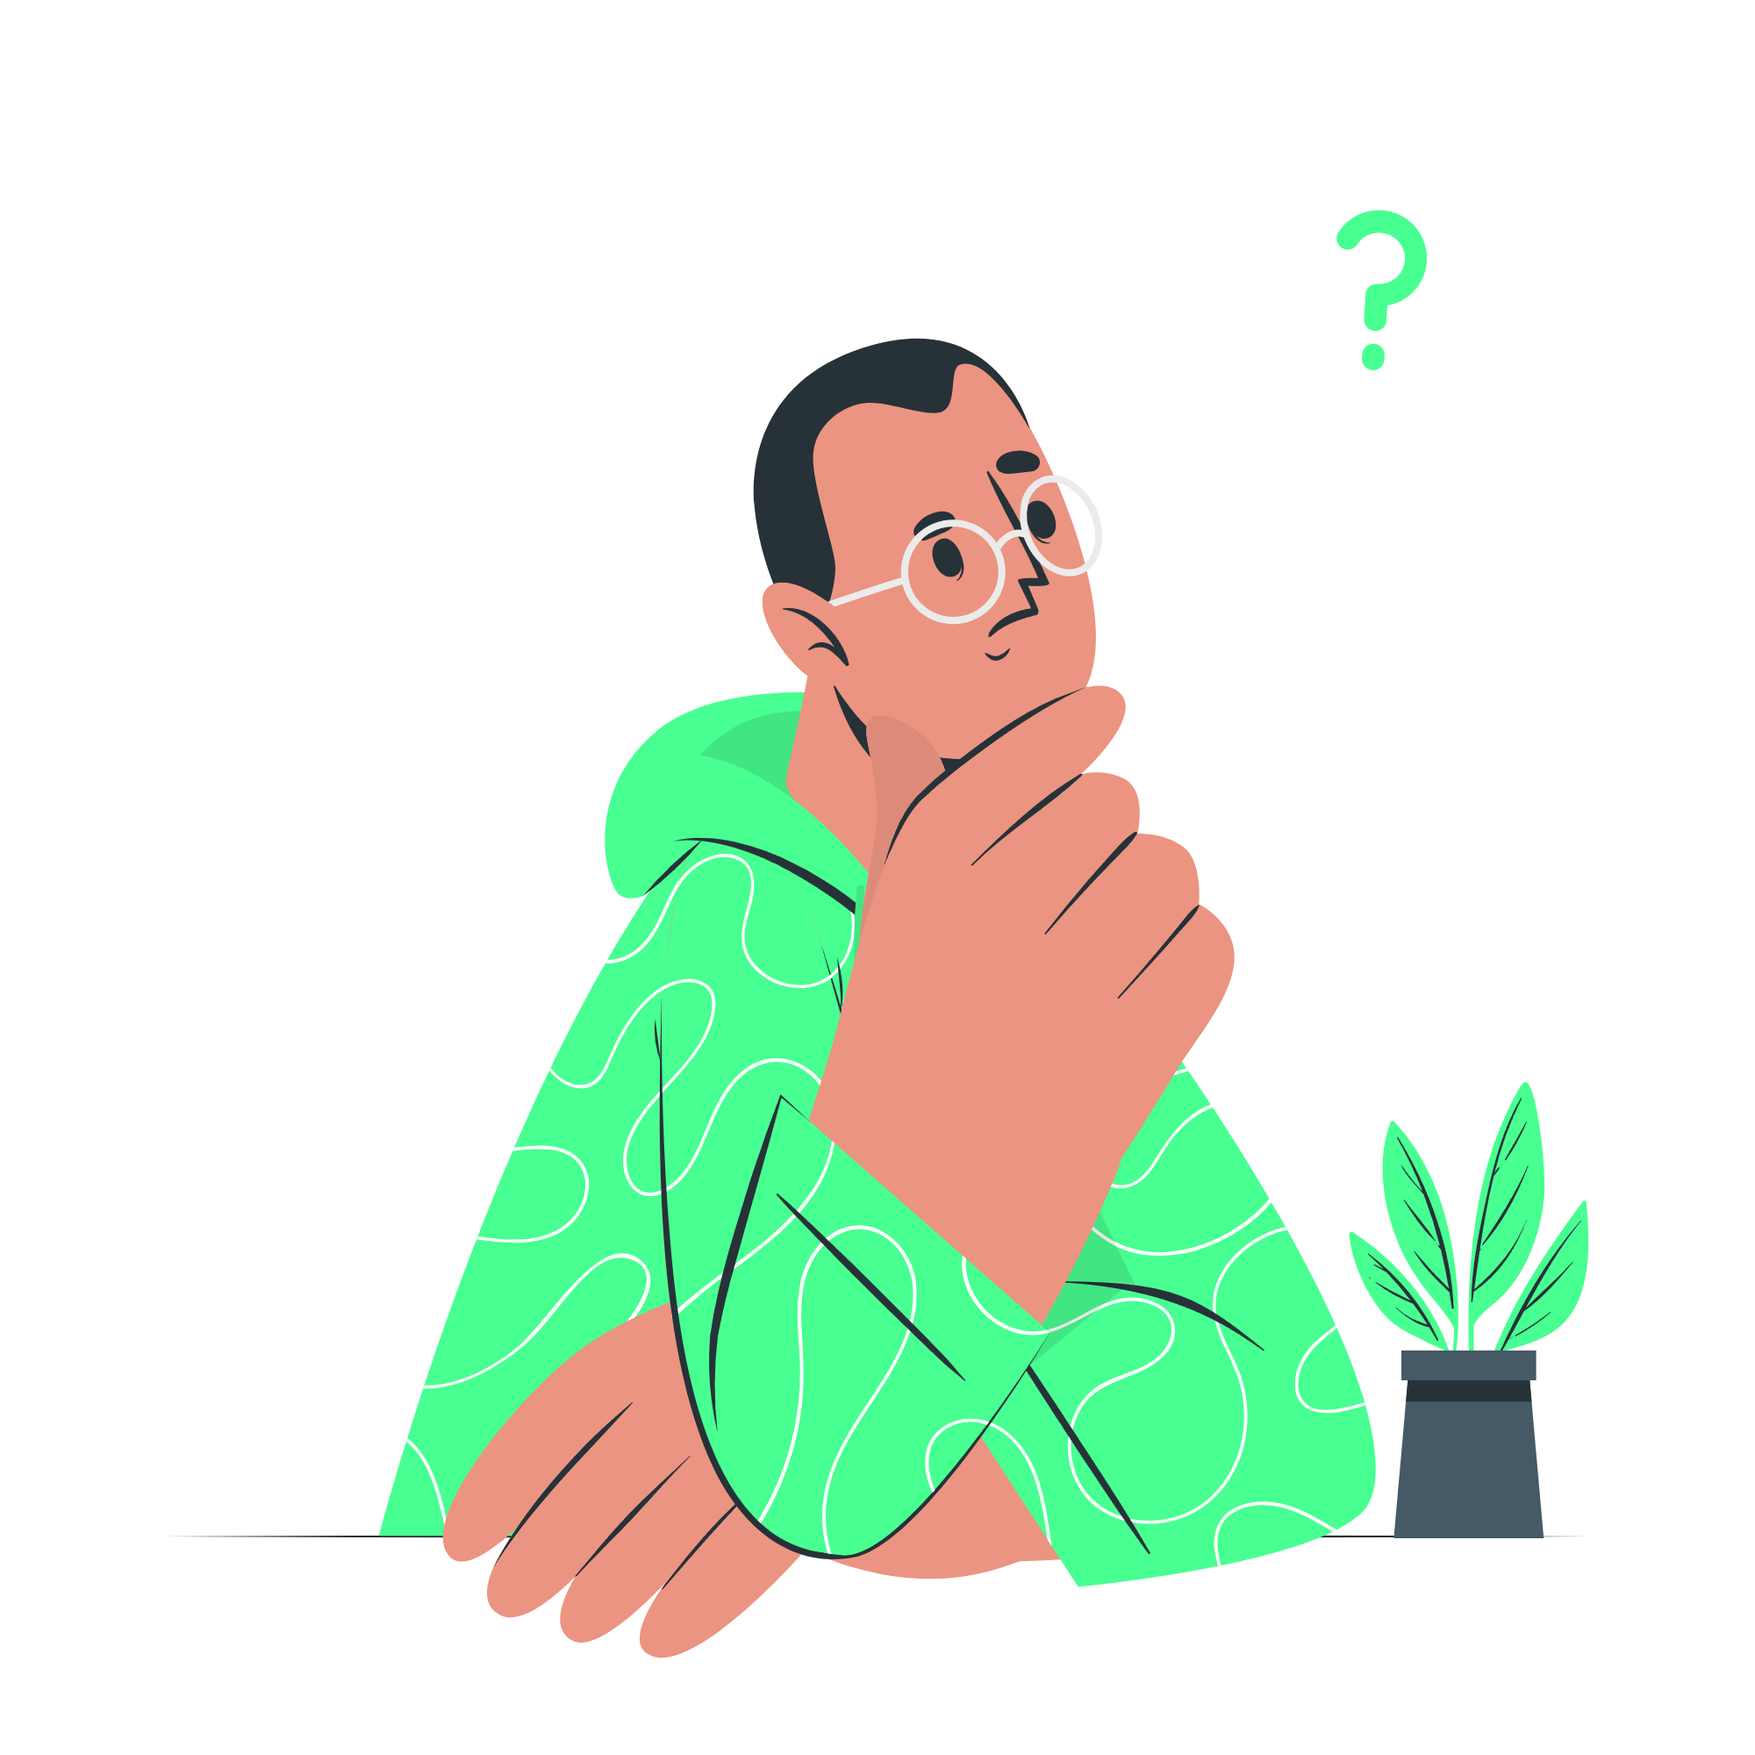
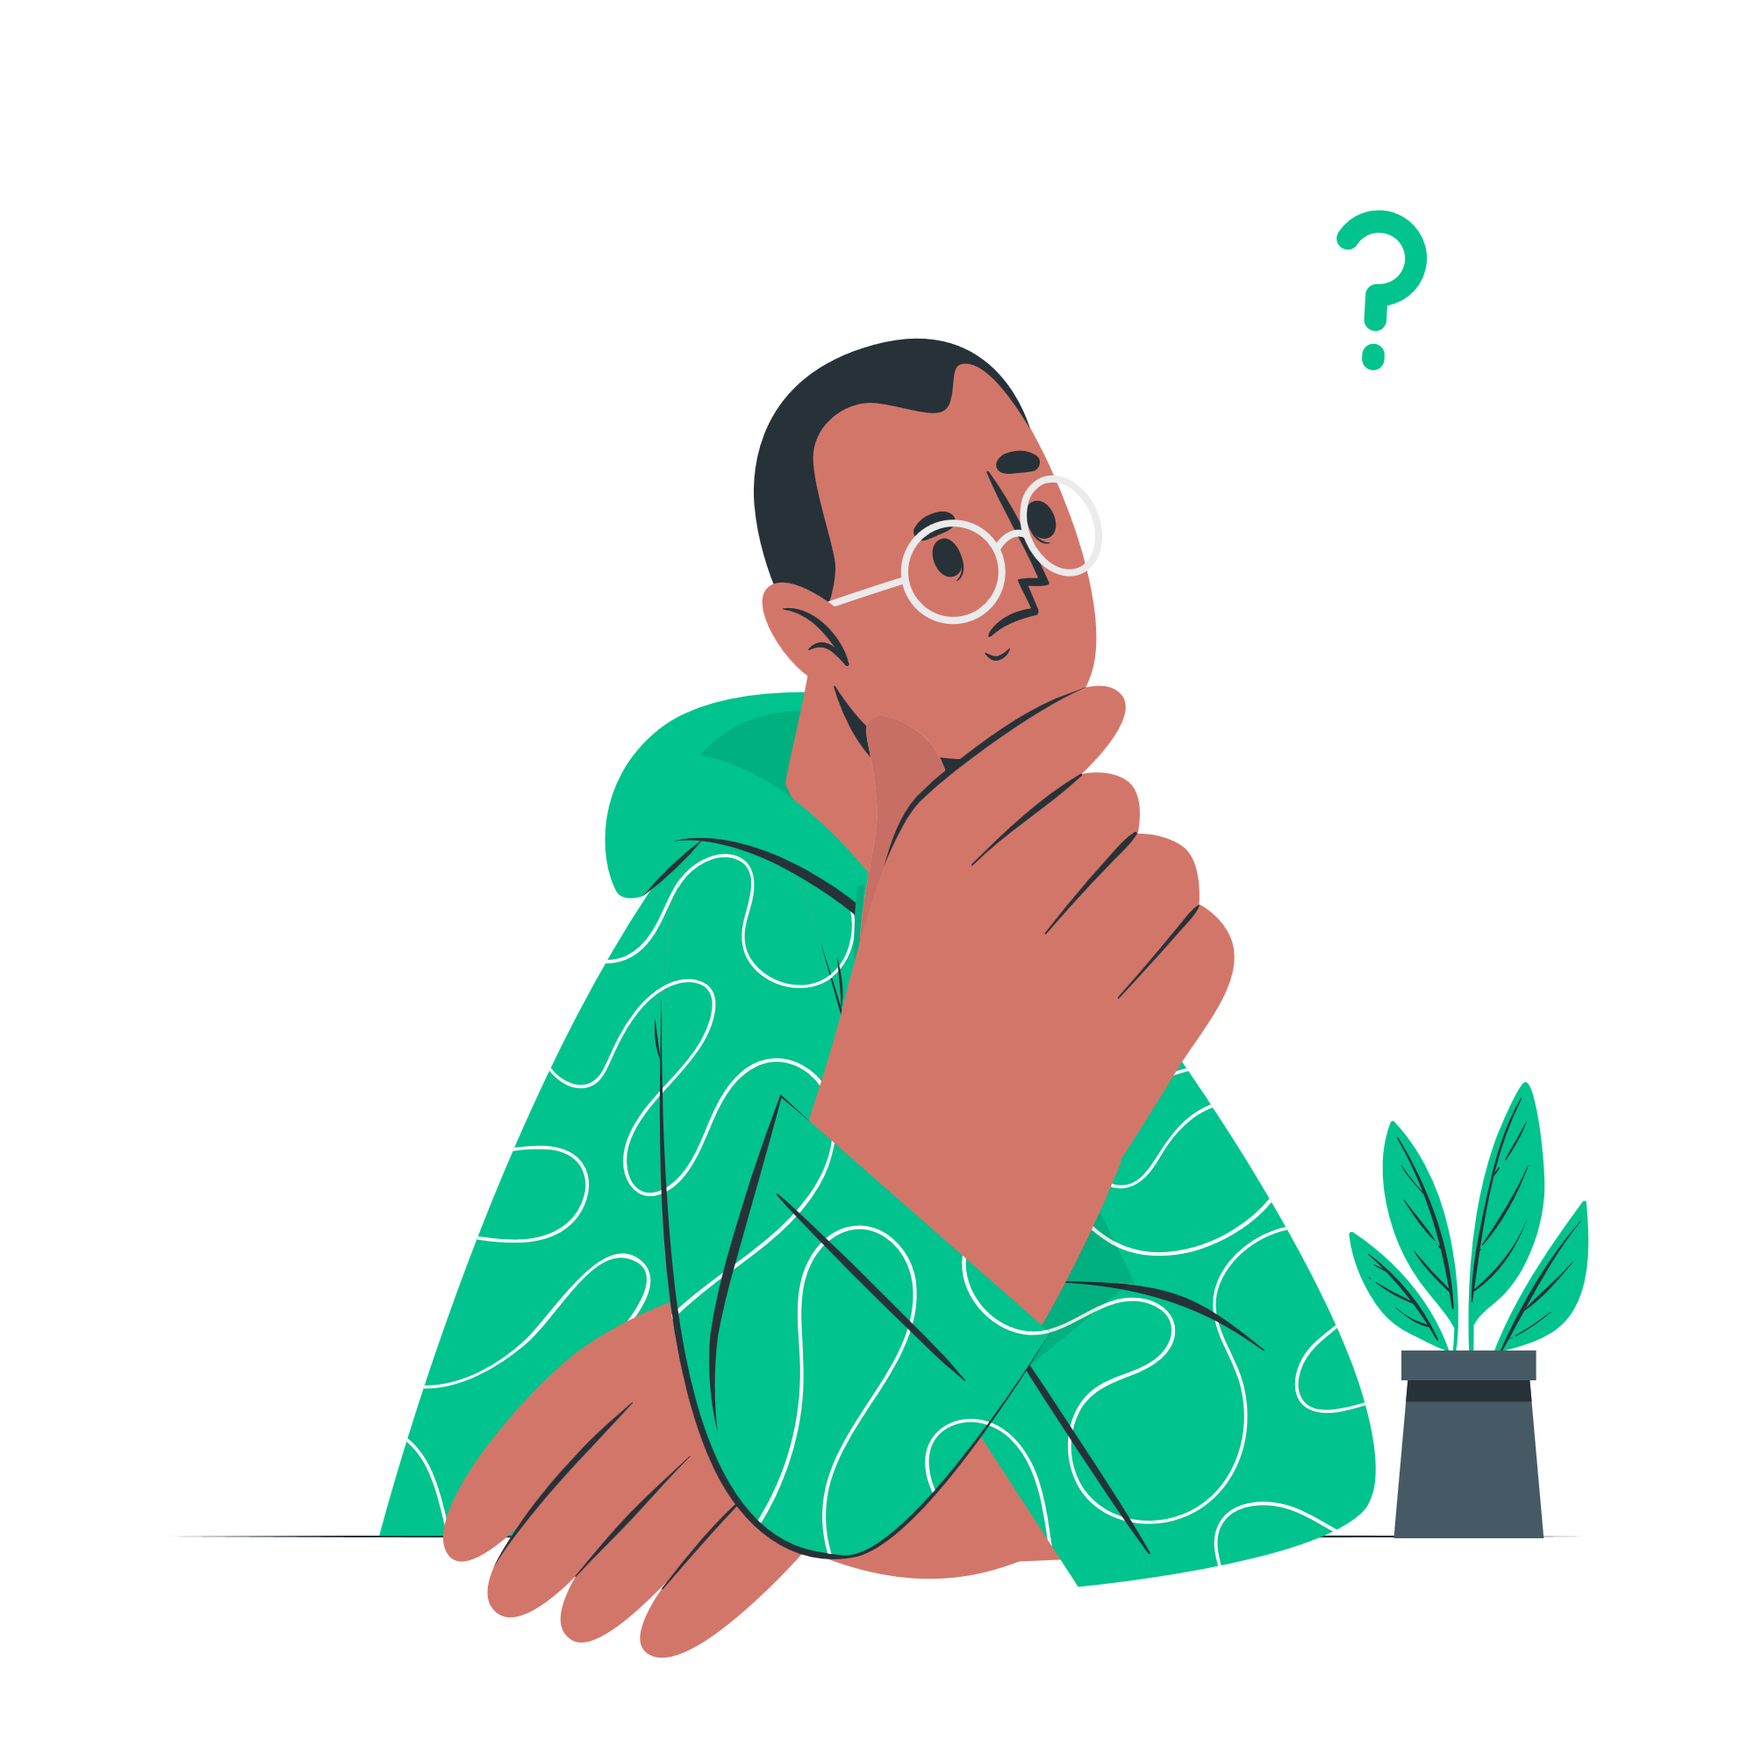
update

Changed region(s): [[0.217, 0.186, 0.93, 0.961], [0.744, 0.124, 0.837, 0.217]]

diff --git a/lib/tools/constants.dart b/lib/tools/constants.dart
@@ -77,23 +77,29 @@ class AppConst {
 
 class AppColors {
   static const Color backgroundColor = Color(0xff1b1b1b);
-  static const Color primary = Color(0xff48ff91);
+  static const Color primary = Color(0xff01c38d);
   static const Color primaryLight = Color(0xff6e3fff);
   static const Color pink = Color.fromRGBO(255, 237, 237, 1.0);
-  static const Color black = Colors.black;
-  static const Color darkGray = Color.fromRGBO(108, 108, 108, 1.0);
+  static const Color black = Color(0xff102117);
+  static const Color darkGray = Color(0xFFBDBDBD);
   static const Color gray = Color(0xff979797);
   static const Color grayPrimary = Color(0xff9ea6be);
   static const Color lightGray = Color.fromARGB(255, 206, 206, 206);
   static const Color white2 = Color.fromRGBO(255, 255, 255, 1.0);
   static const Color white = Color(0xffeaeaea);
+  static const Color nav0Color = Color(0xffadb4bc);
+  static const Color nav1Color = Color(0xff01c38d);
   static const Color textColor = Color(0xffeaeaea);
   static const Color textColor1 = Color(0xffeaeaec);
-  static const Color textColor2 = Color(0xff858e9d);
+  static const Color textColor2 = Color(0xffeaeaeb);
   static const Color textColor3 = Color(0xff858d97);
-  static const Color textColor4 = Color(0xff48ff91);
+  static const Color textColor4 = Color(0xff01c38d);
+  static const Color titleColor1 = Color(0xffeaeaea);
+  static const Color titleColor2 = Color(0xffeaeaea);
+  static const Color titleColor3 = Color(0xff01c38d);
+  static const Color titleColor4 = Color(0xffeaeaea);
   static const Color buttonText = Color(0xff102117);
-  static const Color buttonBackground = Color(0xff48ff91);
+  static const Color buttonBackground = Color(0xff01c38d);
   static const Color buttonBackground2 = Color(0xff272727);
   static const Color background = Color(0xff1b1b1b);
   static const Color orange = Color.fromRGBO(255, 168, 37, 1.0);
@@ -111,7 +117,6 @@ class AppColors {
   static const yellow = Color.fromARGB(255, 221, 241, 106);
   static const yellowBackground = Color(0xff262219);
   static const blue2 = Color.fromARGB(255, 69, 207, 241);
-
 }
 
 class AppThemes {
@@ -170,7 +175,7 @@ class AppThemes {
       systemOverlayStyle: SystemUiOverlayStyle.dark,
       backgroundColor: AppColors.background,
       iconTheme: const IconThemeData(color: AppColors.white),
-      titleTextStyle: AppTextStyles.appbarTitle,
+      titleTextStyle: AppTextStyles.title2,
     ),
     elevatedButtonTheme: ElevatedButtonThemeData(
       style: ElevatedButton.styleFrom(
@@ -179,7 +184,7 @@ class AppThemes {
         disabledForegroundColor: AppColors.primary.withOpacity(.5),
         disabledBackgroundColor: AppColors.secondary.withOpacity(.5),
         padding: AppConst.buttonPadding,
-        textStyle: AppTextStyles.buttonText,
+        textStyle: AppTextStyles.title3,
         shape: AppConst.buttonShape2,
       ),
     ),
@@ -204,7 +209,7 @@ class AppThemes {
     textTheme: TextTheme(
       bodyLarge: AppTextStyles.text1,
       bodyMedium: AppTextStyles.text2,
-      bodySmall: AppTextStyles.caption,
+      bodySmall: AppTextStyles.title4,
     ),
     colorScheme: const ColorScheme.dark(
       surface: AppColors.background,
@@ -215,47 +220,23 @@ class AppThemes {
 class AppTextStyles {
   static String fontFamily = kIsWeb ? "GeneralSansWeb" : "GeneralSans";
   static TextStyle base = TextStyle(fontFamily: fontFamily);
-  static TextStyle title = base.copyWith(
+  static TextStyle title1 = base.copyWith(
       fontSize: 25.toPx,
-      color: AppColors.textColor,
+      color: AppColors.titleColor1,
       fontWeight: FontWeight.w600);
-  // static TextStyle headline2 = base.copyWith(
-  //     fontSize: 24.toPx,
-  //     color: AppColors.textColor,
-  //     fontWeight: FontWeight.w700);
-  // static TextStyle headline3 = base.copyWith(
-  //     fontSize: 25.toPx,
-  //     color: AppColors.textColor,
-  //     fontWeight: FontWeight.w600);
-  // static TextStyle headline4 = base.copyWith(
-  //     fontSize: 16.toPx,
-  //     color: AppColors.textColor,
-  //     fontWeight: FontWeight.w600);
-  // static TextStyle headline5 = base.copyWith(
-  //     fontSize: 14.toPx,
-  //     color: AppColors.textColor,
-  //     fontWeight: FontWeight.w600);
-  // static TextStyle headline6 = base.copyWith(
-  //     fontSize: 12.toPx,
-  //     color: AppColors.textColor,
-  //     fontWeight: FontWeight.w600);
-  // static TextStyle headline7 = base.copyWith(
-  //     fontSize: 10.toPx,
-  //     color: AppColors.textColor,
-  //     fontWeight: FontWeight.w600);
-
-  // static TextStyle subtitle1 = base.copyWith(
-  //     fontSize: 14.toPx,
-  //     color: AppColors.textColor,
-  //     fontWeight: FontWeight.w500);
-  // static TextStyle subtitle2 = base.copyWith(
-  //     fontSize: 12.toPx,
-  //     color: AppColors.textColor,
-  //     fontWeight: FontWeight.w500);
-  // static TextStyle subtitle3 = base.copyWith(
-  //     fontSize: 11.toPx,
-  //     color: AppColors.darkGray,
-  //     fontWeight: FontWeight.w500);
+  static TextStyle title2 = base.copyWith(
+      fontSize: 18.toPx,
+      color: AppColors.titleColor2,
+      fontWeight: FontWeight.w500);
+  static TextStyle title3 = base.copyWith(
+      fontSize: 16.toPx,
+      color: AppColors.buttonText,
+      fontWeight: FontWeight.w500);
+  static TextStyle title4 = base.copyWith(
+      fontSize: 13.toPx,
+      color: AppColors.titleColor4,
+      fontWeight: FontWeight.w300);
+      
   static TextStyle subtitleSmallLight = base.copyWith(
     color: AppColors.gray,
     fontSize: 10.toPx,
@@ -270,9 +251,6 @@ class AppTextStyles {
       fontSize: 15.toPx,
       color: AppColors.textColor1,
       fontWeight: FontWeight.w500);
-  static TextStyle bodyTextLargePrimary =
-      text1.copyWith(color: AppColors.primary);
-  static TextStyle bodyTextLargeDark = text1.copyWith(color: AppColors.black);
 
   static TextStyle text2 = base.copyWith(
       fontSize: 15.toPx,
@@ -284,31 +262,21 @@ class AppTextStyles {
       color: AppColors.textColor1,
       fontWeight: FontWeight.w400);
 
-  static TextStyle buttonText = base.copyWith(
-      fontSize: 16.toPx,
-      color: AppColors.buttonText,
-      fontWeight: FontWeight.w500);
+  // static TextStyle buttonText = base.copyWith(
+  //     fontSize: 16.toPx,
+  //     color: AppColors.buttonText,
+  //     fontWeight: FontWeight.w500);
 
   static TextStyle bodyTextSmallPrimary =
       text3.copyWith(color: AppColors.primary);
 
-  static TextStyle appbarTitle = base.copyWith(
-      fontSize: 18.toPx,
-      color: AppColors.textColor,
-      fontWeight: FontWeight.w500);
-
-  static TextStyle caption = base.copyWith(
-      fontSize: 11.toPx,
-      color: AppColors.textColor,
-      fontWeight: FontWeight.w300);
-
   static TextStyle navbar0 = base.copyWith(
       fontSize: 14.toPx,
-      color: AppColors.textColor,
-      fontWeight: FontWeight.w400);
+      color: AppColors.nav0Color,
+      fontWeight: FontWeight.w500);
 
   static TextStyle navbar1 = base.copyWith(
       fontSize: 14.toPx,
-      color: AppColors.textColor4,
-      fontWeight: FontWeight.w400);
+      color: AppColors.nav1Color,
+      fontWeight: FontWeight.w500);
 }

diff --git a/lib/controllers/test_controller.dart b/lib/controllers/test_controller.dart
@@ -1,27 +1,9 @@
-import 'package:drtest/models/dosing/apixaban_dosing_model.dart';
-import 'package:drtest/models/dosing/dabigatran_dosing_model.dart';
-import 'package:drtest/models/dosing/edoxaban_dosing_model.dart';
-import 'package:drtest/models/dosing/f4_dosing_model.dart';
-import 'package:drtest/models/dosing/rivaroxaban_dosing_model.dart';
-import 'package:drtest/models/public/checkbox_model.dart';
-import 'package:drtest/models/public/idtitle_model.dart';
-import 'package:drtest/models/question/drug_dosing_data.dart';
-import 'package:drtest/models/question/drug_interaction_model.dart';
-import 'package:drtest/models/question/question_model.dart';
 import 'package:drtest/response/question/question_response.dart';
 import 'package:drtest/tools/core.dart';
-import 'package:drtest/views/drug/dosing/apixaban_dosing_screen.dart';
-import 'package:drtest/views/drug/dosing/dabigatran_dosing_screen.dart';
-import 'package:drtest/views/drug/dosing/edoxaban_dosing_screen.dart';
-import 'package:drtest/views/drug/dosing/lmwh_dosing_screen.dart';
-import 'package:drtest/views/drug/dosing/rivaroxaban_dosing_screen.dart';
-import 'package:drtest/views/drug/dosing/ufh_screen.dart';
-import 'package:drtest/views/drug/dosing/ptt_calc_screen.dart';
-import 'package:drtest/views/drug/dosing/ts_calc_screen.dart';
-import 'package:drtest/views/drug/dosing/wafarin4f_dosing_screen.dart';
-import 'package:drtest/views/drug/dosing/wafarin_extra_screen.dart';
 import 'package:flutter/widgets.dart';
 import 'package:get/get.dart';
+
+import '../models/models.dart';
 
 class TestController extends GetxController {
   void closeDosing() {
@@ -37,7 +19,19 @@ class TestController extends GetxController {
 
   TestModel get model => _responseObs.value.content!;
 
-  newTest() => _responseObs.value = QuestionResponse();
+  void newTest() {
+    _responseObs.value = QuestionResponse();
+    // initDrugInteraction();
+    // initDrugDosing();
+    // initStack();
+  }
+
+  void initAll() {
+    _responseObs.value = QuestionResponse();
+    initDrugInteraction();
+    initDrugDosing();
+    initStack();
+  }
 
   set isFemale(bool v) =>
       _responseObs.update((val) => val!.content!.isFemale = v);

diff --git a/lib/views/drug/drugs_screen.dart b/lib/views/drug/drugs_screen.dart
@@ -33,11 +33,13 @@ class DrugsScreen extends StatelessWidget {
 •	Avoid anticoagulation therapy due to the high risk of spontaneous Bleeding. (EHRA/NOAC/AF 2021)
 •	Absolute contraindications to OACs. (AF ESC 2020)
 •	Temporarily hold anticoagulant until platelet count increases above 25000 / µl. (UpToDate)
-""", style: AppTextStyles.bodyTextLargeDark))
+""", style: AppTextStyles.title3.apply(color: AppColors.black)))
                 ]
               : [
                   ...model.titles.map((e) => cardBox(
-                      child: Text(e, style: AppTextStyles.bodyTextLargeDark))),
+                      child: Text(e,
+                          style: AppTextStyles.title3
+                              .apply(color: AppColors.black)))),
                   ...model.drugs.map(
                     (e) {
                       var status = _controller.getDrugInteractions(e.id);
@@ -73,8 +75,11 @@ class DrugsScreen extends StatelessWidget {
                   }, color: AppColors.red),
                   testButton(
                     "Continue",
-                    () => Get.toNamed("/part3",
-                        arguments: part3Data(_controller.model)),
+                    () => Get.toNamed(
+                      "/part3",
+                      arguments: part3Data(_controller.model),
+                    ),
+                    color: AppColors.orange,
                   ),
                 ],
         );

diff --git a/lib/tools/pages.dart b/lib/tools/pages.dart
@@ -21,3 +21,13 @@ export 'package:drtest/views/drug/drug_interaction_screen.dart';
 export 'package:drtest/views/home/dashboard_screen.dart';
 export 'package:drtest/views/public/abbreviations_screen.dart';
 export 'package:drtest/views/public/contactus_screen.dart';
+export 'package:drtest/views/drug/dosing/apixaban_dosing_screen.dart';
+export 'package:drtest/views/drug/dosing/dabigatran_dosing_screen.dart';
+export 'package:drtest/views/drug/dosing/edoxaban_dosing_screen.dart';
+export 'package:drtest/views/drug/dosing/lmwh_dosing_screen.dart';
+export 'package:drtest/views/drug/dosing/rivaroxaban_dosing_screen.dart';
+export 'package:drtest/views/drug/dosing/ufh_screen.dart';
+export 'package:drtest/views/drug/dosing/ptt_calc_screen.dart';
+export 'package:drtest/views/drug/dosing/ts_calc_screen.dart';
+export 'package:drtest/views/drug/dosing/wafarin4f_dosing_screen.dart';
+export 'package:drtest/views/drug/dosing/wafarin_extra_screen.dart';

diff --git a/lib/ui/widgets/textfield.dart b/lib/ui/widgets/textfield.dart
@@ -116,7 +116,7 @@ Widget textField({
                   if (showClearButton)
                     textButton(
                       title: "پاک کردن",
-                      textStyle: AppTextStyles.caption
+                      textStyle: AppTextStyles.title4
                           .copyWith(color: AppColors.primary),
                       onTap: () {
                         controller?.text = "";
@@ -231,7 +231,7 @@ Widget textField3({
                 textButton(
                   title: "پاک کردن",
                   textStyle:
-                      AppTextStyles.caption.copyWith(color: AppColors.blue),
+                      AppTextStyles.title4.copyWith(color: AppColors.blue),
                   onTap: () {
                     controller?.text = "";
                     focusNode?.requestFocus();

diff --git a/lib/models/models.dart b/lib/models/models.dart
@@ -1,0 +1,10 @@
+export 'package:drtest/models/dosing/apixaban_dosing_model.dart';
+export 'package:drtest/models/dosing/dabigatran_dosing_model.dart';
+export 'package:drtest/models/dosing/edoxaban_dosing_model.dart';
+export 'package:drtest/models/dosing/f4_dosing_model.dart';
+export 'package:drtest/models/dosing/rivaroxaban_dosing_model.dart';
+export 'package:drtest/models/public/checkbox_model.dart';
+export 'package:drtest/models/public/idtitle_model.dart';
+export 'package:drtest/models/question/drug_dosing_data.dart';
+export 'package:drtest/models/question/drug_interaction_model.dart';
+export 'package:drtest/models/question/question_model.dart';

diff --git a/lib/views/public/aboutus_screen.dart b/lib/views/public/aboutus_screen.dart
@@ -15,7 +15,7 @@ class AboutUsScreen extends StatelessWidget {
         children: [
           const SizedBox(height: 20),
           Image.asset(
-            imagePath("TUMS_v02.png"),
+            imagePath("TUMS_v03.png"),
             height: 250,
           ),
           const SizedBox(height: 20),
@@ -26,7 +26,7 @@ class AboutUsScreen extends StatelessWidget {
           ),
           const SizedBox(height: 20),
           Image.asset(
-            imagePath("Research_Center_v02.png"),
+            imagePath("Research_Center_v03.png"),
             height: 250,
           ),
           // Text(

diff --git a/lib/views/public/splash_screen.dart b/lib/views/public/splash_screen.dart
@@ -47,13 +47,13 @@ class SplashScreen extends StatelessWidget {
             Image.asset(imagePath("logo.png"), height: 150),
             Text(
               appName,
-              style: AppTextStyles.title,
+              style: AppTextStyles.title1,
               textAlign: TextAlign.center,
             ),
             const Spacer(),
             Text(
               "© 2024, Tehran University of Medical Science",
-              style: AppTextStyles.caption,
+              style: AppTextStyles.title4,
               textAlign: TextAlign.center,
             ),
           ],

diff --git a/lib/ui/widgets/button.dart b/lib/ui/widgets/button.dart
@@ -27,8 +27,8 @@ Widget appButton({
               child: Text(
                 title,
                 style: textColor == null
-                    ? AppTextStyles.buttonText
-                    : AppTextStyles.buttonText.apply(color: textColor),
+                    ? AppTextStyles.title3
+                    : AppTextStyles.title3.apply(color: textColor),
                 maxLines: 10,
                 softWrap: true,
                 textAlign: textAlign,

diff --git a/lib/views/drug/drug_interaction_desc2_screen.dart b/lib/views/drug/drug_interaction_desc2_screen.dart
@@ -43,7 +43,7 @@ Lower dose is recommended.
             """Green
 No clinically remarkable interaction detected based on the EHRA 2021 and Lexi Comp.
             """,
-            style: AppTextStyles.text2.apply(color: AppColors.blue),
+            style: AppTextStyles.text2.apply(color: AppColors.primary),
           ),
         ],
       ),
